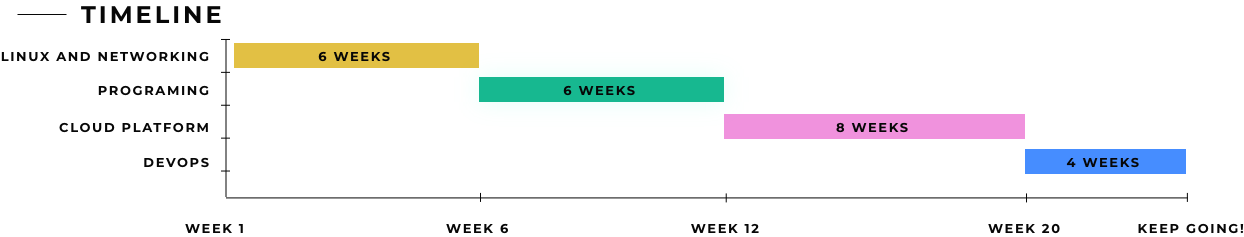
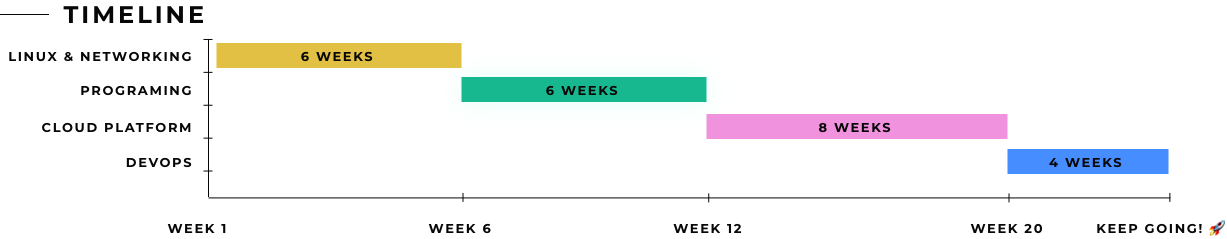
Updates to structure

diff --git a/README.md b/README.md
@@ -4,160 +4,14 @@
 
 This is the learning path we would take if we had to start over again and work our way up to a junior cloud engineer skill set in about 6 months. Any links you see ARE NOT AFFILIATE LINKS, we don't want your money. Okay, let's go.
 
-## Phase 1: Linux and networking essentials
-
-The reason we pair them together is because lots of networking tasks are done via command line and Linux management is all about command line.
-
-### Linux and networking Resources
-
-I'll put these in the order I'd learn them in. If a row has a same number, it means I would watch/read along side each other.
-
-| Order      | Title    | Notes     |
+| Phase      | Title    | Time commitment     |
 | :------------- | :----------: | -----------: |
-|  1| [Linux Basics for Hackers](https://nostarch.com/linuxbasicsforhackers)   | This book made learning Linux FUN! It's pretty easy to follow and take a chapter day by day.   |
-| 1   | [The Linux Command Line](https://nostarch.com/tlcl2) | I used this more as a reference to reinforce topics from the first book. |
-| 2   | [Introduction to Networking](https://www.youtube.com/watch?v=cNwEVYkx2Kk&list=PLDQaRcbiSnqF5U8ffMgZzS7fq1rHUI3Q8) | Great YouTube playlist of basic networking concepts. |
-| Optional   | [Computer Networking Course - Network Engineering](https://youtu.be/qiQR5rTSshw) | This full college-level computer networking course will prepare you to configure, manage, and troubleshoot computer networks. |
+| [1](phase1/README.md) | Linux and Networking| 6 weeks |
+| [2](phase2/README.md) | Programming | 6 weeks |
+| [3](phase3/README.md) | Cloud Platform | 8 weeks |
+| [4](phase4/README.md) | DevOps | 4 weeks |
 
-Once you have gone through this content, I think you would have a solid basic level of Linux and networking knowledge, no you're not a professional, but you shouldn't feel lost or clueless. The two books I mentioned have several projects, DO THEM! Do not just read the theory! If there is a concept you don't understand, look it up, don't limit yourself to the resources I am sharing here.
+## Authors
 
-### Linux and networking Projects
-
- Title    | Resources     |
- :----------: | -----------: |
- Install Linux on a computer   | Research a distro and install it (I really like [Pop!_OS](https://pop.system76.com/)) |
-Setup a [LAMP server](https://en.wikipedia.org/wiki/LAMP_(software_bundle)) | A pretty popular Linux admin task. |
- Deploy a NAS server | Checkout [FreeNAS](https://www.freenas.org/) |
- Deploy your own cloud | Checkout [NextCloud](https://nextcloud.com/) |
-
-## Phase 2: Programming
-
-You'll be using code to automate tasks and deploy infrastructure and you even though you don't need to know how to build full applications, Understanding the basics of programming will give you an upper hand. In the previous step you would've been introduced to bash scripting, so you should know some concepts by now.
-
-For this step, I would go with [Python](https://www.python.org/). It's a very popular language and there are many quality free resources out there to learn it. It's one of the simpler ones to get started with too. Also please create a [GitHub](https://github.com/) account NOW if you don't already have one. It'll be your code portfolio and you should put as many projects as you'd like on there.
-
-| Order      | Title    | Notes     |
-| :------------- | :----------: | -----------: |
-|  1 | [Python Crash Course](https://ehmatthes.github.io/pcc/)   | Another fun book to follow, also there is an Appendix in there on Git which is great!   |
-| 1   | [Automate the boring stuff with Python](https://automatetheboringstuff.com/) | I haven't fully finished this book, but it can be used to learn Python too |
-| 1   | [FreeCodeCamp Learn Python](https://www.youtube.com/watch?v=rfscVS0vtbw) | One of the many amazing resources provided by [FreeCodeCamp](https://www.freecodecamp.org/)|
-| 2   | [Git tutorial for beginners](https://www.youtube.com/watch?v=8JJ101D3knE) | You'll need Git, learn it!|
-
-You can follow any one of the python resources, you don't have to do them all, but definitely do the Git one, Once you finish one of them, it's time to build something for your GitHub. The books will have plenty of projects. These can just be text based, don't worry about building UIs, unless you want to.
-
-### Projects for coding practice
-
- Title    | Resources     |
- :----------: | -----------: |
- Product Inventory Project  |  Create an application which manages an inventory of products. This will help you practice OOP concepts. |
-Thumbnail Creator  | Create an program that can take multiple images and converts them to a specified size in the background, this will help you practice threading concepts. |
- Score Tracker | Create a program that you provide a team name and it will tell you if that team played today and what the game score was. #HalaMadrid btw. |
-
- Honestly, there are plenty of lists of projects out there you can do. Google is your best bet here.
-
- Alright, so where are we at now?  We're 4 1/2 months in, we've got some solid basic Linux, networking and programming skills. Time to learn some cloud.
-
-## Phase 3: Cloud Platform
-
-This phase is the longest and for good reason, I mean it's called cloud engineering for a reason.
-
-LET ME START OFF BY SAYING THAT YES I AM BIASED TOWARDS AZURE. Azure was the cloud platform I learned as a sysadmin to get promoted to Cloud Engineer. I started my YouTube channel with Azure tutorials. I was an Azure MVP and most recently, I now work for Microsoft.
-
-AWS, Azure, GCP, the million dollar question. I would rule out GCP because there's so much more content, community, and jobs around the other two, essentials things when you're getting started. AWS or Azure? You can't go wrong with either. Regardless of which one you choose, the fundamentals are the same and my advice is the same.
-
-Whichever cloud you pick, make sure you create an account and setup some budgets and alerts so you don't wake up to surprises on your bill. [Here](https://youtu.be/FZD0s7KE83Y) is how to do it in the Azure portal, and here [AWS](https://www.youtube.com/watch?v=fvz0cphjHjg).
-
-### A note on paid cloud learning platforms
-
-There are platforms out there like [A Cloud Guru](https://acloudguru.com) and [CloudAcademy](https://cloudacademy.com) that you can pay for a monthly or yearly subscription and gain access to content and lab environments for your learning. These do help you avoid spending your own money in your own AWS and Azure accounts, which when you're getting started is a good thing. Ultimately, if you sign up for one, it's up to you. I had a subscription to A Cloud Guru and Linux Academy when I was getting started, my work paid for it though, maybe this is a perk your work can pay for too.
-
-### Take a certification
-
-I personally like cloud certifications, they give you a nice outline to follow in terms of learning. However I don't think you need to have every single certification out there. One or two, plus the Linux, networking, programming, knowledge is plenty and already quite impressive.
-
-### What should my first cloud certification be?
-
-You have two options here:
-
-- Entry level certification: Like the [AWS Certified cloud practitioner](https://aws.amazon.com/certification/certified-cloud-practitioner/) or the [Azure Fundamentals AZ-900](https://docs.microsoft.com/en-us/learn/certifications/exams/az-900).
-- Skip the entry level and go for an associate level: AWS has [three](https://aws.amazon.com/certification/) associate level certifications and Azure has I believe [four now](https://docs.microsoft.com/en-us/learn/certifications/browse/?resource_type=certification&products=azure&terms=associate).
-
-You can skip the entry level one a take more time studying for the associate, or take them both. Up to you.
-
-For the associate level AWS, I would go with any of them, I've heard the [SysOps](https://aws.amazon.com/certification/certified-sysops-admin-associate/) one is the hardest. Personally I have the [AWS certified developer associate](https://aws.amazon.com/certification/certified-developer-associate/) (it expired, but hey I still studied for it so I'm counting it!) it was a fun certification to study for. For Azure I would go for the [AZ-104](https://docs.microsoft.com/en-us/learn/certifications/azure-administrator/) or [AZ-204](https://docs.microsoft.com/en-us/learn/certifications/azure-developer/). The other associate level ones are a little more specificized. You can of course take them later on :)
-
-### Cloud learning Resources
-
-| Level      | Title    | Notes     |
-| :------------- | :----------: | -----------: |
-| AZ-900 | [Microsoft learn](https://docs.microsoft.com/en-us/learn/certifications/exams/az-900)   | Microsoft learn and Microsoft documentation is my go to for learning anything Azure related  |
-| AZ-104   | [Microsoft learn](https://docs.microsoft.com/en-us/learn/certifications/exams/az-104)| Microsoft learn and Microsoft documentation is my go to for learning anything Azure related |
-| AZ-204   | [Microsoft learn](https://docs.microsoft.com/en-us/learn/certifications/exams/az-204) | Microsoft learn and Microsoft documentation is my go to for learning anything Azure related |
-| AZ-900 | [A Cloud Guru](https://acloudguru.com/course/az-900-microsoft-azure-fundamentals)   | I used to work with Lars, so I know how much work and care he puts into his courses, 10/10 recommend. |
-| AZ-104   | [A Cloud Guru](https://acloudguru.com/course/az-104-microsoft-azure-administrator-certification-prep)| I haven't done this one personally, but I know ACG is pretty good quality.|
-| AZ-204   | [A Cloud Guru](https://acloudguru.com/course/az-204-developing-solutions-for-microsoft-azure) | I haven't done this one personally, but I know ACG is pretty good quality. |
-| AWS | [Rishab's Cloud Notes](https://rishabkumar7.github.io/CloudNotes/) | I don't have recent first hand experience with any AWS content besides A Cloud Guru, but my good friend [Rishab](https://twitter.com/rishabk7) does, checkout his very details exam guides :)
-
-### How to approach learning cloud computing
-
-Regardless which learning material you choose, it'll have some sort of demo/hands-on aspect to it. Do it. Don't just watch/read. This isn't a Netflix show you're consuming, this is learning time. If the instructor is doing something on screen, watch it, and then try it on your own.
-
-When you are first getting started with cloud, you'll be doing everything via the UI, This is fine for getting started, however once you're in a job, you'll be using a CLI to manage your environments. My advice here is, for every exercise you do via the UI, look up the CLI command and do it that way too.
-
-Eventually you'll learn these commands and it'll become easier to remember which one to use, but this is also a great time to introduce yourself to the official documentation, [AWS](https://docs.aws.amazon.com/index.html) and [Azure](https://docs.microsoft.com/en-us/azure/?product=featured)
-
-If there is something you don't understand about a service or command, your go to should be the documentation. After that you can look up articles, tutorials, etc.
-
-### Cloud Projects
-
- Title    | Resources     |
- :----------: | -----------: |
-[Cloud Resume Challenge](https://cloudresumechallenge.dev/)  | Build your resume with AWS services. |
-[Azure Cloud Resume Challenge](https://youtu.be/ieYrBWmkfno) | Similar to the previous project, except using Azure. |
- [100DaysOfCloud](https://github.com/100DaysOfCloud/100DaysOfCloudIdeas) | A list of many projects to do |
- Create a script that will deploy an ubuntu VM | You provide a name and region |
- Deploy a [ghost blog](https://ghost.org/docs/install/) | Blogs are great for you to document your learning, here's [mine](https:madebygps.com), deployed on Azure :) |
-
-## Phase 4: DevOps
-
-Final phase. First off, read some stuff about what DevOps is. Each cloud platform has a suite of DevOps tools, I've linked a few articles here.
-
-- https://azure.microsoft.com/en-us/overview/what-is-devops/#overview
-- https://aws.amazon.com/devops/what-is-devops/
-- https://www.ibm.com/cloud/learn/devops-a-complete-guide
-
-I also think it's worth reading [The Phoenix Project](https://itrevolution.com/the-phoenix-project/) it's a pretty fun read because it's a fictional story but it explains the importance of DevOps.
-
-### Learn DevOps practices
-
-- Continuous integration and continuous delivery (CI/CD)
-- Version Control
-- Infrastructure as Code
-- Configuration management
-- Continuous monitoring
-
-You might be thinking that 4 weeks isn't a lot of time to cover all these, and you're right. With DevOps, it's so hard to establish a standard of learning, because every organization implements it differently. However, I think if you spent these 4 weeks learning Version control, CI/CD and Infrastructure as Code, you'll have  good foundation. You'll also be exposed to these practices in the resume projects I listed in the cloud projects table.
-
-[DevOps Engineering Course for Beginners](https://youtu.be/j5Zsa_eOXeY)
-
-### DevOps learning resources
-
-| Practice      | Tool    |
-| :------------- | :----------:
-| Continuous integration and continuous delivery | [GitHub actions](https://docs.github.com/en/actions) |
-| Version Control (you should've become familiar with Git in phase 2)| [Git and GitHub](https://docs.github.com/en/github/getting-started-with-github/quickstart)|
-| Infrastructure as Code | [Terraform](https://www.terraform.io/) |
-
-### DevOps projects
-
-Title    | Resources     |
- :----------: | -----------: |
-| Deploy a VNet (or VPC) and 2 VMs in the cloud with Terraform | Make sure you can SSH into both VMs and from vm1 you can ping vm2 and vice-versa. |
-| Remember that NAS project from Phase 1? | Deploy it with Terraform |
-
-
-## What's next
-
-If you made it through all this, you're a legend and you have the work ethic required. You now need someone to take a chance on you and for that my friend I have no secrets.
-
-
+- Gwyn
+- Rishab

diff --git a/phase3/README.md b/phase3/README.md
@@ -1,0 +1,59 @@
+# Phase 3: Cloud Platform
+
+This phase is the longest and for good reason, it's called cloud engineering for a reason.
+
+AWS, Azure, GCP, the million dollar question. We would rule out GCP because there's so much more content, community, and jobs around the other two, essentials things when you're getting started. AWS or Azure? You can't go wrong with either. Regardless of which one you choose, the fundamentals are the same and our advice is the same.
+
+Whichever cloud you pick, make sure you create an account and setup some budgets and alerts so you don't wake up to surprises on your bill. [Here](https://youtu.be/FZD0s7KE83Y) is how to do it in the Azure portal, and here [AWS](https://www.youtube.com/watch?v=fvz0cphjHjg).
+
+## A note on paid cloud learning platforms
+
+There are platforms out there like [A Cloud Guru](https://acloudguru.com) and [CloudAcademy](https://cloudacademy.com) that you can pay for a monthly or yearly subscription and gain access to content and lab environments for your learning. These do help you avoid spending your own money in your own AWS and Azure accounts, which when you're getting started is a good thing. Ultimately, if you sign up for one, it's up to you. I had a subscription to A Cloud Guru and Linux Academy when I was getting started, my work paid for it though, maybe this is a perk your work can pay for too.
+
+## Take a certification
+
+I personally like cloud certifications, they give you a nice outline to follow in terms of learning. However I don't think you need to have every single certification out there. One or two, plus the Linux, networking, programming, knowledge is plenty and already quite impressive.
+
+## What should my first cloud certification be?
+
+You have two options here:
+
+- Entry level certification: Like the [AWS Certified cloud practitioner](https://aws.amazon.com/certification/certified-cloud-practitioner/) or the [Azure Fundamentals AZ-900](https://docs.microsoft.com/en-us/learn/certifications/exams/az-900).
+- Skip the entry level and go for an associate level: AWS has [three](https://aws.amazon.com/certification/) associate level certifications and Azure has I believe [four now](https://docs.microsoft.com/en-us/learn/certifications/browse/?resource_type=certification&products=azure&terms=associate).
+
+You can skip the entry level one a take more time studying for the associate, or take them both. Up to you.
+
+For the associate level AWS, I would go with any of them, I've heard the [SysOps](https://aws.amazon.com/certification/certified-sysops-admin-associate/) one is the hardest. Personally I have the [AWS certified developer associate](https://aws.amazon.com/certification/certified-developer-associate/) (it expired, but hey I still studied for it so I'm counting it!) it was a fun certification to study for. For Azure I would go for the [AZ-104](https://docs.microsoft.com/en-us/learn/certifications/azure-administrator/) or [AZ-204](https://docs.microsoft.com/en-us/learn/certifications/azure-developer/). The other associate level ones are a little more specificized. You can of course take them later on :)
+
+## Resources
+
+| Level      | Title    | Notes     |
+| :------------- | :----------: | -----------: |
+| AZ-900 | [Microsoft learn](https://docs.microsoft.com/en-us/learn/certifications/exams/az-900)   | Microsoft learn and Microsoft documentation is my go to for learning anything Azure related  |
+| AZ-104   | [Microsoft learn](https://docs.microsoft.com/en-us/learn/certifications/exams/az-104)| Microsoft learn and Microsoft documentation is my go to for learning anything Azure related |
+| AZ-204   | [Microsoft learn](https://docs.microsoft.com/en-us/learn/certifications/exams/az-204) | Microsoft learn and Microsoft documentation is my go to for learning anything Azure related |
+| AZ-900 | [A Cloud Guru](https://acloudguru.com/course/az-900-microsoft-azure-fundamentals)   | I used to work with Lars, so I know how much work and care he puts into his courses, 10/10 recommend. |
+| AZ-104   | [A Cloud Guru](https://acloudguru.com/course/az-104-microsoft-azure-administrator-certification-prep)| I haven't done this one personally, but I know ACG is pretty good quality.|
+| AZ-204   | [A Cloud Guru](https://acloudguru.com/course/az-204-developing-solutions-for-microsoft-azure) | I haven't done this one personally, but I know ACG is pretty good quality. |
+| AWS | [Rishab's Cloud Notes](https://rishabkumar7.github.io/CloudNotes/) | I don't have recent first hand experience with any AWS content besides A Cloud Guru, but my good friend [Rishab](https://twitter.com/rishabk7) does, checkout his very details exam guides :)
+
+## How to approach learning cloud computing
+
+Regardless which learning material you choose, it'll have some sort of demo/hands-on aspect to it. Do it. Don't just watch/read. This isn't a Netflix show you're consuming, this is learning time. If the instructor is doing something on screen, watch it, and then try it on your own.
+
+When you are first getting started with cloud, you'll be doing everything via the UI, This is fine for getting started, however once you're in a job, you'll be using a CLI to manage your environments. My advice here is, for every exercise you do via the UI, look up the CLI command and do it that way too.
+
+Eventually you'll learn these commands and it'll become easier to remember which one to use, but this is also a great time to introduce yourself to the official documentation, [AWS](https://docs.aws.amazon.com/index.html) and [Azure](https://docs.microsoft.com/en-us/azure/?product=featured)
+
+If there is something you don't understand about a service or command, your go to should be the documentation. After that you can look up articles, tutorials, etc.
+
+## Projects
+
+ Title    | Resources     |
+ :----------: | -----------: |
+[Cloud Resume Challenge](https://cloudresumechallenge.dev/)  | Build your resume with AWS services. |
+[Azure Cloud Resume Challenge](https://youtu.be/ieYrBWmkfno) | Similar to the previous project, except using Azure. |
+ [100DaysOfCloud](https://github.com/100DaysOfCloud/100DaysOfCloudIdeas) | A list of many projects to do |
+ Create a script that will deploy an ubuntu VM | You provide a name and region |
+ Deploy a [ghost blog](https://ghost.org/docs/install/) | Blogs are great for you to document your learning, here's [mine](https:madebygps.com), deployed on Azure :) |
+

diff --git a/phase2/README.md b/phase2/README.md
@@ -1,0 +1,28 @@
+# Phase 2: Programming
+
+You'll be using code to automate tasks and deploy infrastructure and you even though you don't need to know how to build full applications, Understanding the basics of programming will give you an upper hand. In the previous step you would've been introduced to bash scripting, so you should know some concepts by now.
+
+For this step, I would go with [Python](https://www.python.org/). It's a very popular language and there are many quality free resources out there to learn it. It's one of the simpler ones to get started with too. Also please create a [GitHub](https://github.com/) account NOW if you don't already have one. It'll be your code portfolio and you should put as many projects as you'd like on there.
+
+## Resources
+
+| Order      | Title    | Notes     |
+| :------------- | :----------: | -----------: |
+|  1 | [Python Crash Course](https://ehmatthes.github.io/pcc/)   | Another fun book to follow, also there is an Appendix in there on Git which is great!   |
+| 1   | [Automate the boring stuff with Python](https://automatetheboringstuff.com/) | I haven't fully finished this book, but it can be used to learn Python too |
+| 1   | [FreeCodeCamp Learn Python](https://www.youtube.com/watch?v=rfscVS0vtbw) | One of the many amazing resources provided by [FreeCodeCamp](https://www.freecodecamp.org/)|
+| 2   | [Git tutorial for beginners](https://www.youtube.com/watch?v=8JJ101D3knE) | You'll need Git, learn it!|
+
+You can follow any one of the python resources, you don't have to do them all, but definitely do the Git one, Once you finish one of them, it's time to build something for your GitHub. The books will have plenty of projects. These can just be text based, don't worry about building UIs, unless you want to.
+
+## Projects
+
+ Title    | Resources     |
+ :----------: | -----------: |
+ Product Inventory Project  |  Create an application which manages an inventory of products. This will help you practice OOP concepts. |
+Thumbnail Creator  | Create an program that can take multiple images and converts them to a specified size in the background, this will help you practice threading concepts. |
+ Score Tracker | Create a program that you provide a team name and it will tell you if that team played today and what the game score was. #HalaMadrid btw. |
+
+ Honestly, there are plenty of lists of projects out there you can do. Google is your best bet here.
+
+ Alright, so where are we at now?  We're 4 1/2 months in, we've got some solid basic Linux, networking and programming skills. Time to learn some cloud.

diff --git a/phase1/README.md b/phase1/README.md
@@ -1,0 +1,25 @@
+# Phase 1: Linux and networking essentials
+
+The reason we pair them together is because lots of networking tasks are done via command line and Linux management is all about command line.
+
+## Linux and networking Resources
+
+I'll put these in the order I'd learn them in. If a row has a same number, it means I would watch/read along side each other.
+
+| Order      | Title    | Notes     |
+| :------------- | :----------: | -----------: |
+|  1| [Linux Basics for Hackers](https://nostarch.com/linuxbasicsforhackers)   | This book made learning Linux FUN! It's pretty easy to follow and take a chapter day by day.   |
+| 1   | [The Linux Command Line](https://nostarch.com/tlcl2) | I used this more as a reference to reinforce topics from the first book. |
+| 2   | [Introduction to Networking](https://www.youtube.com/watch?v=cNwEVYkx2Kk&list=PLDQaRcbiSnqF5U8ffMgZzS7fq1rHUI3Q8) | Great YouTube playlist of basic networking concepts. |
+| Optional   | [Computer Networking Course - Network Engineering](https://youtu.be/qiQR5rTSshw) | This full college-level computer networking course will prepare you to configure, manage, and troubleshoot computer networks. |
+
+Once you have gone through this content, I think you would have a solid basic level of Linux and networking knowledge, no you're not a professional, but you shouldn't feel lost or clueless. The two books I mentioned have several projects, DO THEM! Do not just read the theory! If there is a concept you don't understand, look it up, don't limit yourself to the resources I am sharing here.
+
+## Linux and networking Projects
+
+ Title    | Resources     |
+ :----------: | -----------: |
+ Install Linux on a computer   | Research a distro and install it (I really like [Pop!_OS](https://pop.system76.com/)) |
+Setup a [LAMP server](https://en.wikipedia.org/wiki/LAMP_(software_bundle)) | A pretty popular Linux admin task. |
+ Deploy a NAS server | Checkout [FreeNAS](https://www.freenas.org/) |
+ Deploy your own cloud | Checkout [NextCloud](https://nextcloud.com/) |

diff --git a/phase4/README.md b/phase4/README.md
@@ -1,0 +1,36 @@
+# Phase 4: DevOps
+
+Final phase. First off, read some stuff about what DevOps is. Each cloud platform has a suite of DevOps tools, I've linked a few articles here.
+
+- https://azure.microsoft.com/en-us/overview/what-is-devops/#overview
+- https://aws.amazon.com/devops/what-is-devops/
+- https://www.ibm.com/cloud/learn/devops-a-complete-guide
+
+I also think it's worth reading [The Phoenix Project](https://itrevolution.com/the-phoenix-project/) it's a pretty fun read because it's a fictional story but it explains the importance of DevOps.
+
+## DevOps practices
+
+- Continuous integration and continuous delivery (CI/CD)
+- Version Control
+- Infrastructure as Code
+- Configuration management
+- Continuous monitoring
+
+You might be thinking that 4 weeks isn't a lot of time to cover all these, and you're right. With DevOps, it's so hard to establish a standard of learning, because every organization implements it differently. However, I think if you spent these 4 weeks learning Version control, CI/CD and Infrastructure as Code, you'll have  good foundation. You'll also be exposed to these practices in the resume projects I listed in the cloud projects table.
+
+[DevOps Engineering Course for Beginners](https://youtu.be/j5Zsa_eOXeY)
+
+## Resources
+
+| Practice      | Tool    |
+| :------------- | :----------:
+| Continuous integration and continuous delivery | [GitHub actions](https://docs.github.com/en/actions) |
+| Version Control (you should've become familiar with Git in phase 2)| [Git and GitHub](https://docs.github.com/en/github/getting-started-with-github/quickstart)|
+| Infrastructure as Code | [Terraform](https://www.terraform.io/) |
+
+## Projects
+
+Title    | Resources     |
+ :----------: | -----------: |
+| Deploy a VNet (or VPC) and 2 VMs in the cloud with Terraform | Make sure you can SSH into both VMs and from vm1 you can ping vm2 and vice-versa. |
+| Remember that NAS project from Phase 1? | Deploy it with Terraform |
